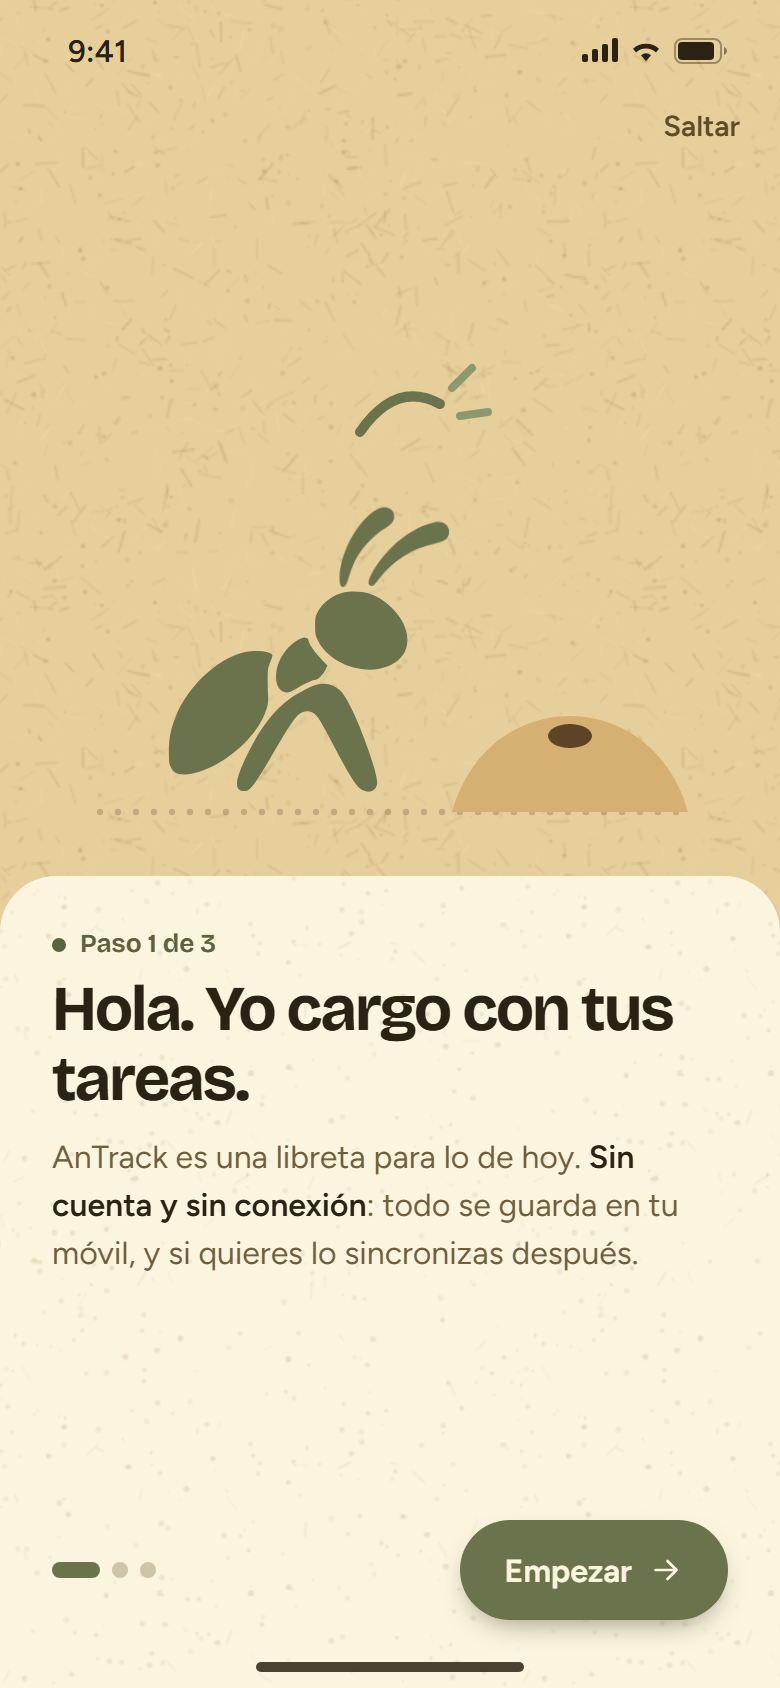
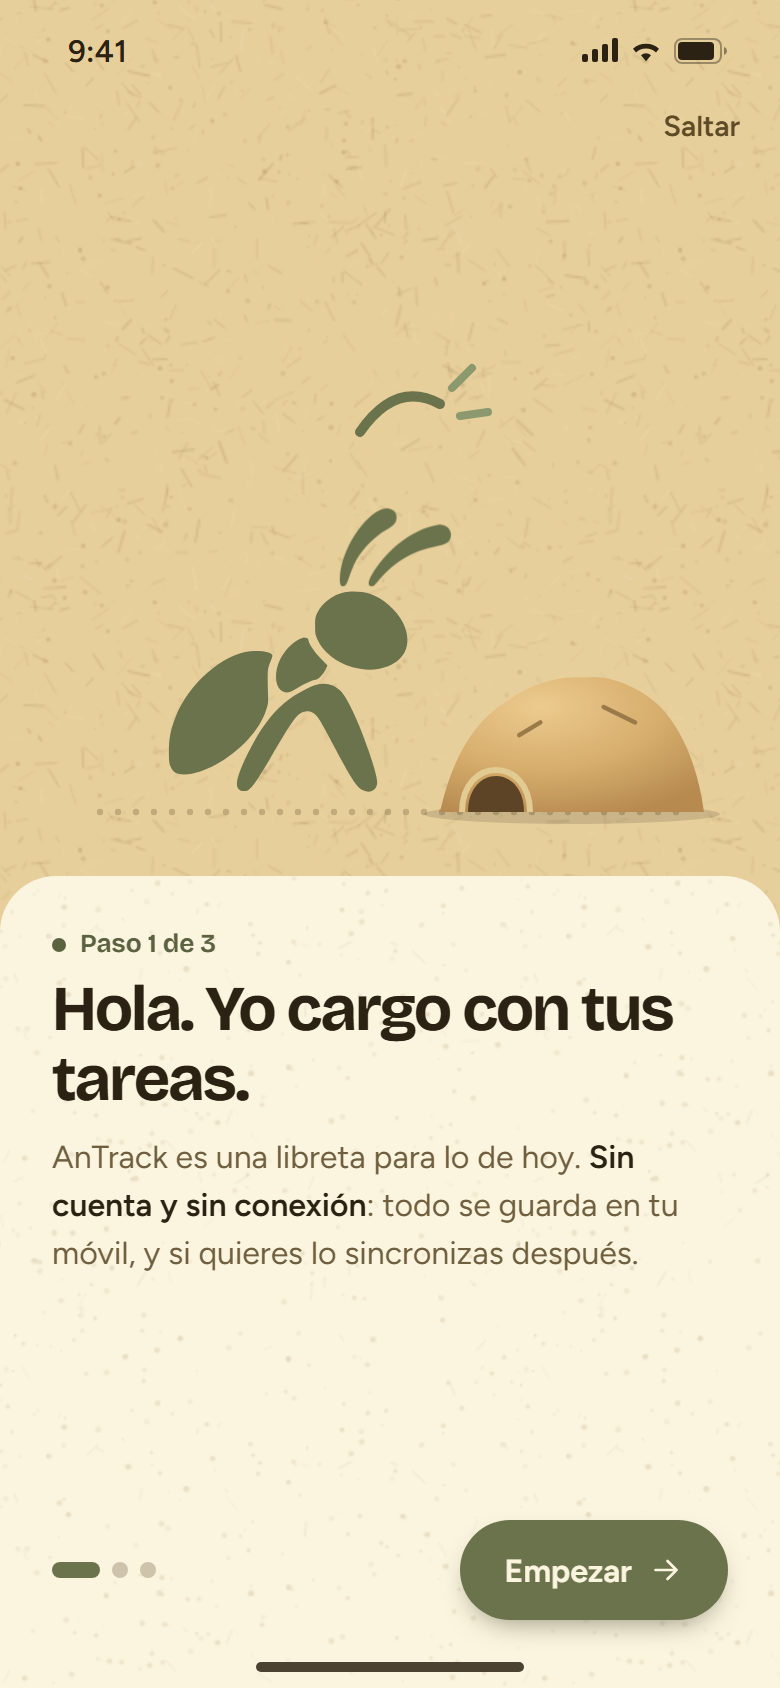
Docs: la bienvenida usa el nuevo montículo y el progreso real

Changed region(s): [[0.5538, 0.4005, 0.9231, 0.4929], [0.4308, 0.3081, 0.5846, 0.3389]]

diff --git a/docs/disenos/hormiga/movil.html b/docs/disenos/hormiga/movil.html
@@ -595,6 +595,9 @@ a{color:inherit;text-decoration:none}
 .bv{position:absolute;inset:0;display:flex;flex-direction:column;padding:0 24px 40px}
 .bv-saltar{position:absolute;right:20px;top:54px;font-weight:600;font-size:14.5px;color:var(--kraft-tinta)}
 .bv-ilus{flex:none;height:360px;display:flex;align-items:flex-end;justify-content:center;margin-top:60px}
+.bv.p3 .bv-ilus{align-items:center;height:330px}
+.bv-pg{width:350px;transform:scale(1.12);transform-origin:50% 60%}
+.bv-pg .cont-n{font-size:40px}
 .bv.p2 .bv-ilus{height:230px;margin-top:50px}
 .bv.p2 .bv-ilus svg{width:250px}
 .bv-ilus svg{width:330px;height:auto;overflow:visible}
@@ -1565,7 +1568,7 @@ document.addEventListener('click',e=>{
 /* ═══ Añadido el 25-nov-2026: bienvenida (3 pasos), avisos y mes ═══ */
 function ilusBienvenida(n){
   if(n===1)return `<svg viewBox="0 0 330 300"><path class="v-suelo" d="M20 286 H310"/>
-    <path class="monticulo" d="M196 286 C 214 222, 296 222, 314 286 Z"/><ellipse class="entrada" cx="255" cy="248" rx="11" ry="6"/>
+    ${montArriba(190,322,285,64)}<path d="M204 286 C 204 262, 232 262, 232 286 Z" style="fill:var(--tierra-osc)"/><path d="M201 286 C 201 258, 235 258, 235 286" style="fill:none;stroke:var(--senda-borde);stroke-width:3"/>
     ${hormiga({x:40,y:120,w:170})}
     <g class="saludo"><path d="M150 96 q 18 -26 40 -14" style="fill:none;stroke:var(--o500);stroke-width:5;stroke-linecap:round"/><path d="M196 74 l 10 -10 M200 88 l 14 -2" style="stroke:var(--o400);stroke-width:4;stroke-linecap:round"/></g></svg>`;
   if(n===2)return `<svg viewBox="0 0 330 300"><path class="v-suelo" d="M20 286 H310"/>
@@ -1574,12 +1577,7 @@ function ilusBienvenida(n){
     <rect x="150" y="91" width="96" height="10" rx="5" style="fill:var(--punto)"/>
     ${hormiga({x:30,y:150,w:140})}
     <path d="M150 170 C 170 150, 200 140, 214 128" style="fill:none;stroke:var(--punto);stroke-width:4;stroke-linecap:round;stroke-dasharray:0 10"/></svg>`;
-  return `<svg viewBox="0 0 330 300"><path class="v-suelo" d="M20 286 H310"/>
-    <path d="M24 250 C 80 200, 140 280, 200 230" style="fill:none;stroke:var(--o500);stroke-width:5;stroke-linecap:round;stroke-dasharray:0 11"/>
-    <path class="monticulo" d="M210 286 C 226 230, 300 230, 316 286 Z"/><ellipse class="entrada" cx="263" cy="252" rx="10" ry="5.5"/>
-    <g transform="rotate(-6 160 150)"><rect x="70" y="118" width="190" height="40" rx="20" style="fill:var(--card);stroke:var(--borde);stroke-width:1.5"/>
-      <circle cx="92" cy="138" r="11" style="fill:var(--o500)"/><rect x="112" y="133" width="120" height="9" rx="4.5" style="fill:var(--punto)"/></g>
-    ${hormiga({x:110,y:146,w:110,cls:'anda'})}</svg>`;
+  return `<div class="pg-host bv-pg"></div>`;
 }
 function pantallaBienvenida(n){
   const txt={
@@ -1730,6 +1728,10 @@ function pie(){const mv=document.querySelector('.pg-movil');
   m.innerHTML=mv?`<b>${E.done}/${E.total}</b> hechas${E.venc?` · <span style="color:var(--venc);font-weight:600">${E.venc} vencidas</span>`:''}`:(E.pend?`de noviembre · ${E.pend} sin hacer`:'de noviembre · nada pendiente');}
 function avanzar(){if(PG)PG.completar();}
 function migas(){}
+// Bienvenida, paso 3: el progreso real, completando tareas solo, en bucle.
+addEventListener('load',()=>{const h=document.querySelector('.bv-pg');if(!h)return;
+  const nueva=()=>pgNuevo(h,{tareas:[{l:'t',ok:1},{l:'p',ok:1},{l:'c'},{l:'r'},{l:'v'}],movil:true});let pg=nueva();
+  setInterval(()=>{if(pg.tareas.every(t=>t.ok)){pg=nueva();return;}pg.completar();},1700);});
 /* ═══ Arranque ═══ */
 texturas();
 const raiz=document.getElementById('raiz');

diff --git a/docs/disenos/hormiga/LEEME.md b/docs/disenos/hormiga/LEEME.md
@@ -222,3 +222,4 @@ Incluye los casos: empezando, casi, día completo, 14 tareas, y la versión móv
 - **Hormiguero (26-nov):** silueta irregular con volumen (luz arriba a la izquierda y sombra en el suelo), textura de granos de tierra y un par de ramitas. Las tareas hechas se guardan como una pila de semillas de colores junto a la puerta, y el montículo crece un poco con el progreso del día.
 - **Hormiguero de Actividad (26-nov):** el montículo de arriba tiene el mismo estilo que el del progreso (volumen, textura y ramitas). Raíces que bajan desde la hierba; cámaras con luz cálida dentro; las tareas de cada semana como una pila de semillas en el suelo de la cámara; etiquetas en tablillas legibles sobre la tierra, y una banderita en la mejor semana («tu mejor semana» / «récord»).
 - **Pasado a las maquetas (26-nov):** el progreso de `progreso.html` (senda, paradas, hormiguero) sustituye al rastro de puntos en Hoy, Hábitos, Día terminado y Agenda, en PC, móvil y tableta. En el móvil el contador pasa al subtítulo («2/6 hechas · 2 vencidas») para no alargar la cabecera.
+- **Bienvenida (26-nov):** el paso 1 usa el mismo montículo, con la puerta en la base; el paso 3 muestra el progreso real (senda, paradas y hormiguero) completando tareas solo, en bucle.
